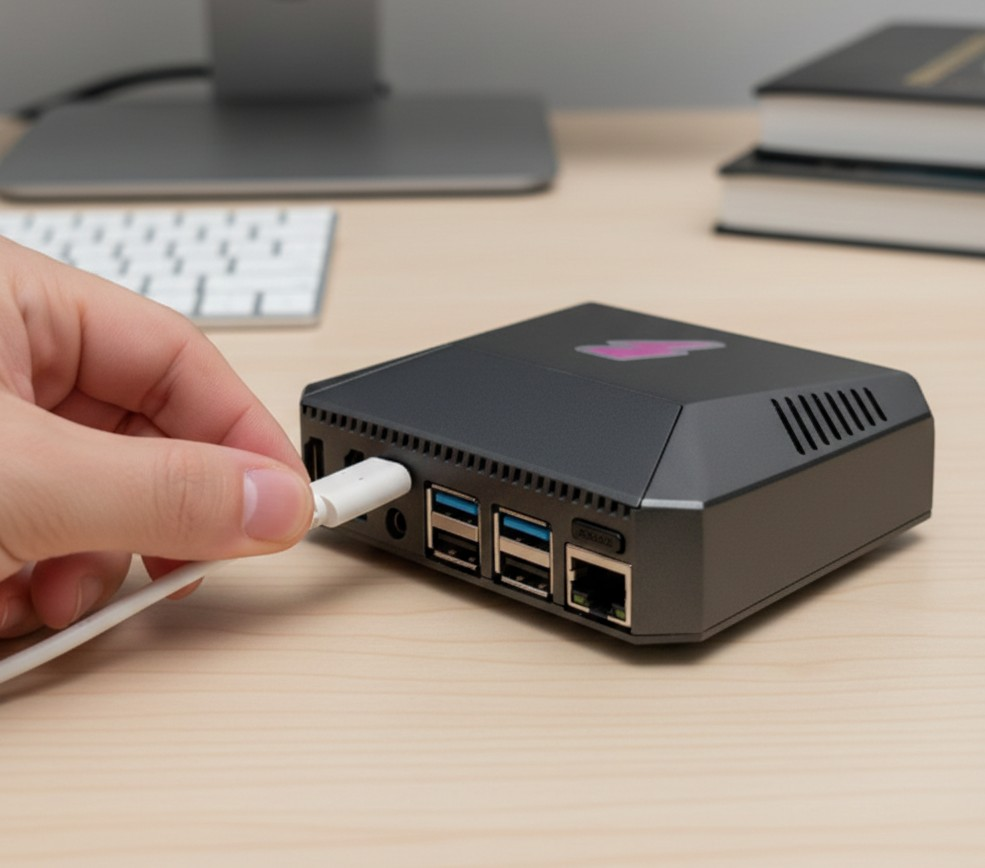
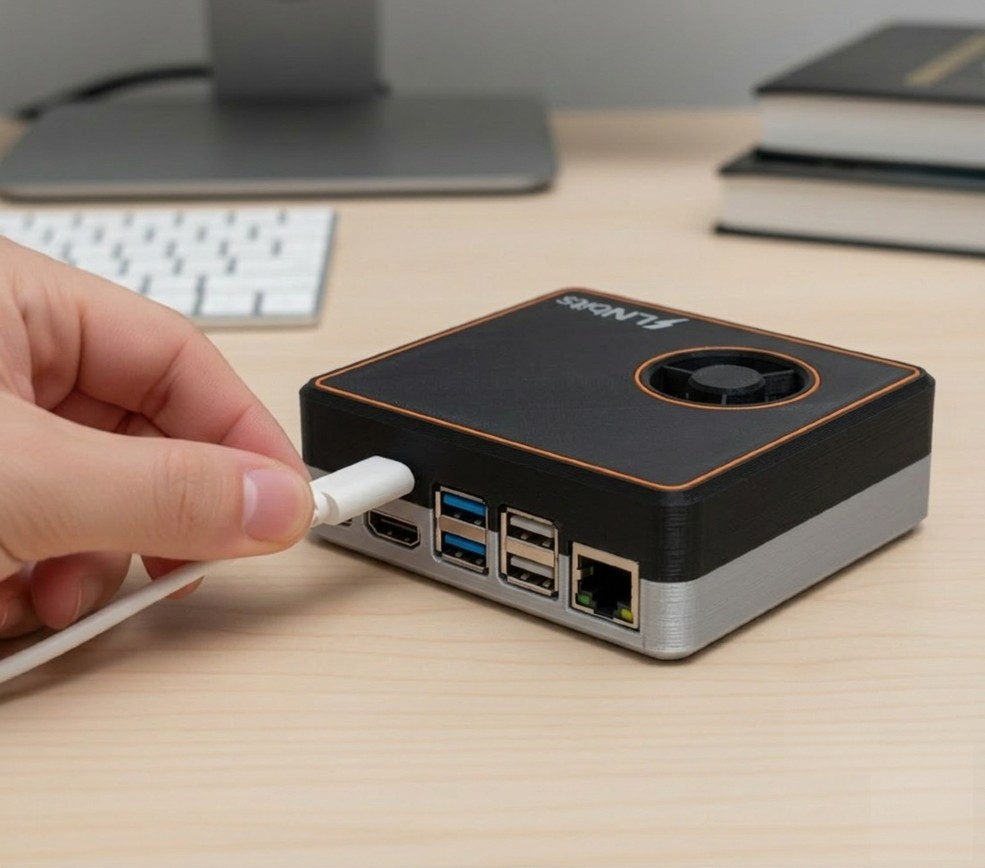
Updated website imagery for new case

Changed region(s): [[0.3046, 0.3111, 0.9746, 0.7776]]

diff --git a/gh-pages/pages/index.vue b/gh-pages/pages/index.vue
@@ -56,7 +56,7 @@
         <!-- Hero image -->
         <div class="rounded-2xl overflow-hidden border border-ln-border max-w-3xl">
           <img
-            src="~/assets/img/lnbits-box-on-desk.png"
+            src="~/assets/img/lnbits-box-on-desk.jpg"
             alt="LNbitsBox device on a desk"
             title="LNbitsBox — clean product photo in a friendly home setting"
             class="w-full h-auto"
@@ -77,7 +77,7 @@
           Everything you need for self-custodial Lightning payments, in one small box.
         </p>
 
-        <div class="grid sm:grid-cols-3 gap-6">
+        <div class="grid md:grid-cols-2 xl:grid-cols-4 gap-6">
 
           <!-- Simple -->
           <div class="bg-ln-card border border-ln-border rounded-2xl p-8 hover:border-ln-pink/20 transition-colors duration-200">
@@ -115,6 +115,20 @@
             <h3 class="font-display font-semibold text-ln-text text-lg mb-3">Private</h3>
             <p class="font-display text-ln-muted text-sm leading-relaxed">
               Everything runs on your own network, in your own space. Access it remotely when you need to.
+            </p>
+          </div>
+
+          <!-- Backup & Recovery -->
+          <div class="bg-ln-card border border-ln-border rounded-2xl p-8 hover:border-ln-pink/20 transition-colors duration-200">
+            <div class="w-12 h-12 rounded-xl bg-ln-pink/10 flex items-center justify-center mb-5">
+              <svg class="w-6 h-6 text-ln-pink" fill="none" viewBox="0 0 24 24" stroke="currentColor" stroke-width="2">
+                <path stroke-linecap="round" stroke-linejoin="round" d="M12 3l7 3v5c0 5-3.4 8.3-7 10-3.6-1.7-7-5-7-10V6l7-3Z" />
+                <path stroke-linecap="round" stroke-linejoin="round" d="M9.5 12l1.7 1.7 3.3-3.7" />
+              </svg>
+            </div>
+            <h3 class="font-display font-semibold text-ln-text text-lg mb-3">Backup &amp; Recovery</h3>
+            <p class="font-display text-ln-muted text-sm leading-relaxed">
+              Create encrypted backups, check them before restoring, and schedule regular recovery snapshots from the admin panel.
             </p>
           </div>
 

diff --git a/gh-pages/pages/how-it-works.vue b/gh-pages/pages/how-it-works.vue
@@ -35,7 +35,7 @@
             Plug LNbitsBox into power and your router (or Wi-Fi). That's all the hardware setup there is.
           </p>
         </div>
-        <img src="~/assets/img/how-it-works-plugin.jpg" alt="" title=""
+        <img src="~/assets/img/how-it-works-plugin.png" alt="" title=""
           class="rounded-2xl border-2 border-ln-border bg-ln-card/60 flex flex-col items-center justify-center gap-3 overflow-hidden"
            />
       </div>
